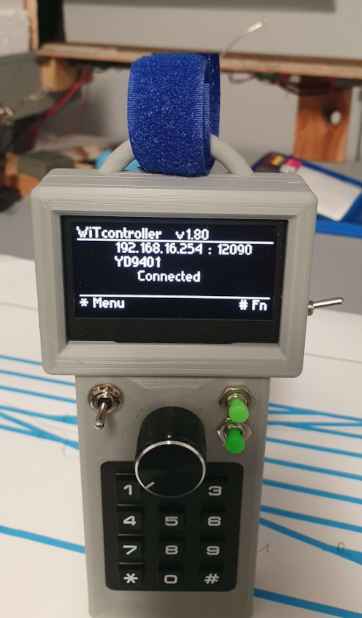
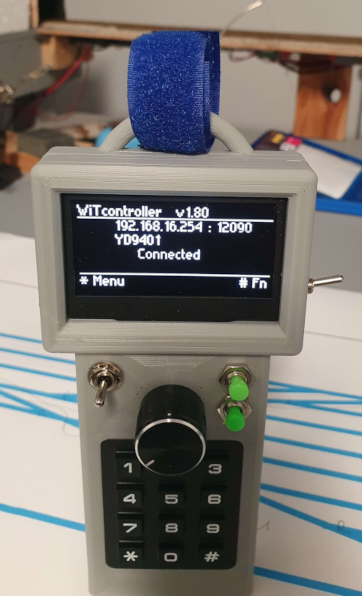
image cleanup

diff --git a/README.md b/README.md
@@ -254,17 +254,14 @@ My case was 3D Printed for me by peteGSX (See the [Thingiverse.](https://www.thi
 
 | | |
 | :--- | :---: |
-| <img src="images/sumner_version.png" width="300;" /> <br/> See [*sumner* version](https://1fatgmc.com/RailRoad/DCC/WiTcontroller-Index.html). | <img src="images/syurev_case.png" height="300;" /> <br/>
-syurev version. See [Thingiverse](https://www.thingiverse.com/thing:6541187) or [cults3d](https://cults3d.com/en/3d-model/gadget/case-for-dccexcontroller-witcontroller?srsltid=AfmBOor1vJFxJRlUXj0FpI2E6JM4anwHzLv4IxYo9wwbWouIjegVqiMr) |
-|<img src="images/railsnail_case.png" height="240;" /> <br/> Railsnail version. See [RMweb](https://www.rmweb.co.uk/forums/topic/186297-project-a-witcontroller-wireless-throttle-to-control-my-dcc-ex-commandstation/). | <img src="images/kees_case.png" height="300;" /> <br/> kees version. See [printables](https://www.printables.com/model/907658-dccexcontroller-witcontroller) |
-| <img src="images/case_uknown.png" height="300;" /> <br/> Unknown author. See [Thingiverse](https://makerworld.com/en/models/819825) | <img src="images/gingerangles_version.png" height="300;" /> <br/> *gingerangles* version with 2.4 inch screen... <br/> gingerangels can be contacted on the DCC-EX Discord server. <br /> [Discord Invite](https://discord.gg/8ghsjsBup8) - 
+| <img src="images/sumner_version.png" width="300;" /> <br/> See [*sumner* version](https://1fatgmc.com/RailRoad/DCC/WiTcontroller-Index.html). | <img src="images/syurev_case.png" height="300;" /> <br/> syurev version. See [Thingiverse](https://www.thingiverse.com/thing:6541187) or [cults3d](https://cults3d.com/en/3d-model/gadget/case-for-dccexcontroller-witcontroller?srsltid=AfmBOor1vJFxJRlUXj0FpI2E6JM4anwHzLv4IxYo9wwbWouIjegVqiMr) |
+|<img src="images/railsnail_case.png" height="240;" /> <br/> Railsnail version. See [RMweb](https://www.rmweb.co.uk/forums/topic/186297-project-a-witcontroller-wireless-throttle-to-control-my-dcc-ex-commandstation/). | <img src="images/kees_case.png" height="250;" /> <br/> kees version. See [printables](https://www.printables.com/model/907658-dccexcontroller-witcontroller) |
+| <img src="images/case_uknown.png" height="250;" /> <br/> Unknown author. See [Thingiverse](https://makerworld.com/en/models/819825) | <img src="images/gingerangles_version.png" height="250;" /> <br/> *gingerangles* version with 2.4 inch screen... <br/> gingerangels can be contacted on the DCC-EX Discord server. <br /> [Discord Invite](https://discord.gg/8ghsjsBup8) - 
 [specific message](https://discord.com/channels/713189617066836079/735156882511102033/1316646832297742380) |
-| <img src="images/rdbnogueira_version.png" height="250;" /> <br/> rdbnogueira version. See [Thingiverse](https://www.thingiverse.com/thing:6956982) | <img src="https://github.com/dvirgo62/Printed-case-for-witcontroller/blob/main/PXL_20250910_022436424.jpg?raw=true" height="300;" /> <br/> David Virgo's version using the EC11 encoder. See [GitHub](https://github.com/dvirgo62/Printed-case-for-witcontroller?fbclid=IwY2xjawMyNLNleHRuA2FlbQIxMABicmlkETFTZ3RWbmRYck9MRENISVczAR7I770O70-brr0UWQ1O463MGa91Kf7WoZwbx85NPC72q69bG04gduhkIRDuFg_aem_znuhLVk6PxQxmlZntuLdAA) |
-| <img src="images/markwtech_case.jpg" height="200;" /> <br/> markwtech version. See [Thingiverse](https://www.thingiverse.com/thing:7029069) | <img src="images/michael_tagg.png" height="200;" /> <br/> Michael Tagg version |
+| <img src="images/rdbnogueira_version.png" height="250;" /> <br/> rdbnogueira version. See [Thingiverse](https://www.thingiverse.com/thing:6956982) | <img src="https://github.com/dvirgo62/Printed-case-for-witcontroller/blob/main/PXL_20250910_022436424.jpg?raw=true" height="250;" /> <br/> David Virgo's version using the EC11 encoder. See [GitHub](https://github.com/dvirgo62/Printed-case-for-witcontroller?fbclid=IwY2xjawMyNLNleHRuA2FlbQIxMABicmlkETFTZ3RWbmRYck9MRENISVczAR7I770O70-brr0UWQ1O463MGa91Kf7WoZwbx85NPC72q69bG04gduhkIRDuFg_aem_znuhLVk6PxQxmlZntuLdAA) |
+| <img src="images/markwtech_case.png" height="200;" /> <br/> markwtech version. See [Thingiverse](https://www.thingiverse.com/thing:7029069) | <img src="images/michael_tagg.png" height="200;" /> <br/> Michael Tagg version |
 | <img src="images/driverd_variation.png" height="100;" /> <br/> DriverD's variation of the design. See [YouTube](https://youtu.be/i4kLNncoFLA?si=Nli4HzZWGFATpnhh) | <img src="images/kitcab.png" height="250;" /> <br/> Kit**Cab** version. Soon to be sold as a kit by [Beacon Models Ltd.](https://www.beacon-models.com) |
-| <img src="images/jonathan_sauer_1.jpeg" height="150;" /><br/>Jonathan Sauer's custom PCB version | <img src="images/jonathan_sauer_2.jpeg" height="150;" /> |
-| <img src="images/jonathan_sauer_3.jpeg" height="150;" /> | <img src="images/jonathan_sauer_4.jpeg" height="150;" /> |
-|  | |
+| <img src="images/jonathan_sauer_1.jpeg" height="150;" /> <img src="images/jonathan_sauer_2.png" height="150;" /> <br/>Jonathan Sauer's custom PCB version | <img src="images/jonathan_sauer_3.png" height="150;" /> <img src="images/jonathan_sauer_4.png" height="150;" /> <br/> <br/> |
 
 ---
 
